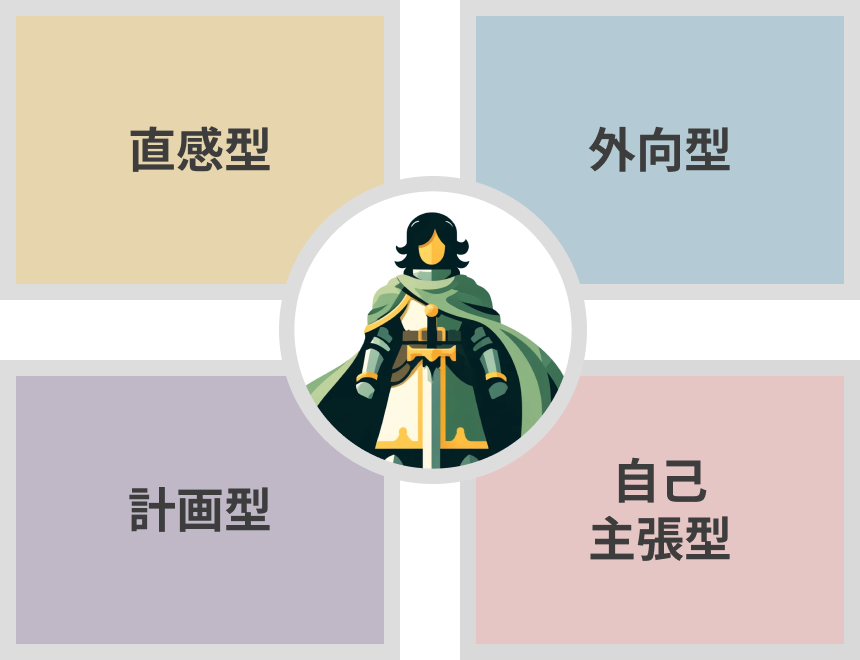
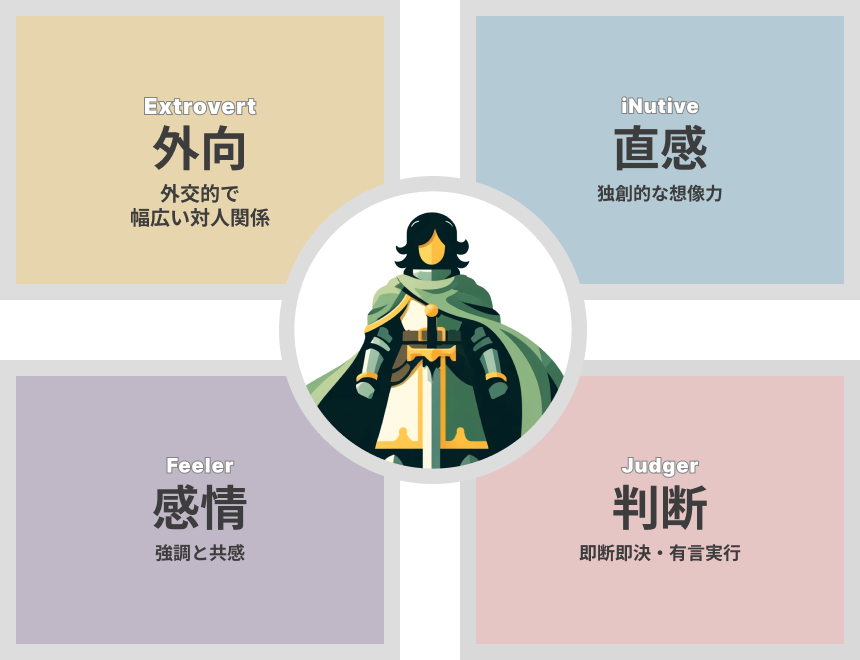
update: pcとモバイルでpersonalityセクションの画像を変更

diff --git a/index.html b/index.html
@@ -50,13 +50,13 @@
               <div class="details__image-container">
                 <picture>
                   <source
-                    srcset="./assets/image/profile-image-sp.jpg"
+                    srcset="./assets/image/profile-image-sp.png"
                     media="(max-width: 768px)"
                     type="image/jpg"
                   />
                   <img
                     class="details__item-image"
-                    src="./assets/image/profile-image.jpg"
+                    src="./assets/image/profile-image.png"
                     alt="若月翔"
                   />
                 </picture>
@@ -151,11 +151,18 @@
             </div>
             <div class="personality__main max-w-960">
               <div class="personality__image-container">
-                <img
-                  class="personality__image"
-                  src="./assets/image/personality.png"
-                  alt=""
-                />
+                <picture>
+                  <source
+                    srcset="./assets/image/personality-sp.png"
+                    media="(max-width: 768px)"
+                    type="image/jpg"
+                  />
+                  <img
+                    class="personality__image"
+                    src="./assets/image/personality.png"
+                    alt=""
+                  />
+                </picture>
               </div>
               <p class="personality__text">
                 考え込みすぎず、自分の意志をもって突き進みます。<br

diff --git a/assets/css/style.css b/assets/css/style.css
@@ -437,7 +437,6 @@ img {
         font-size: 14px;
     }
 
-
     /* general classes */
     .lg-hidden {
         display: block;
